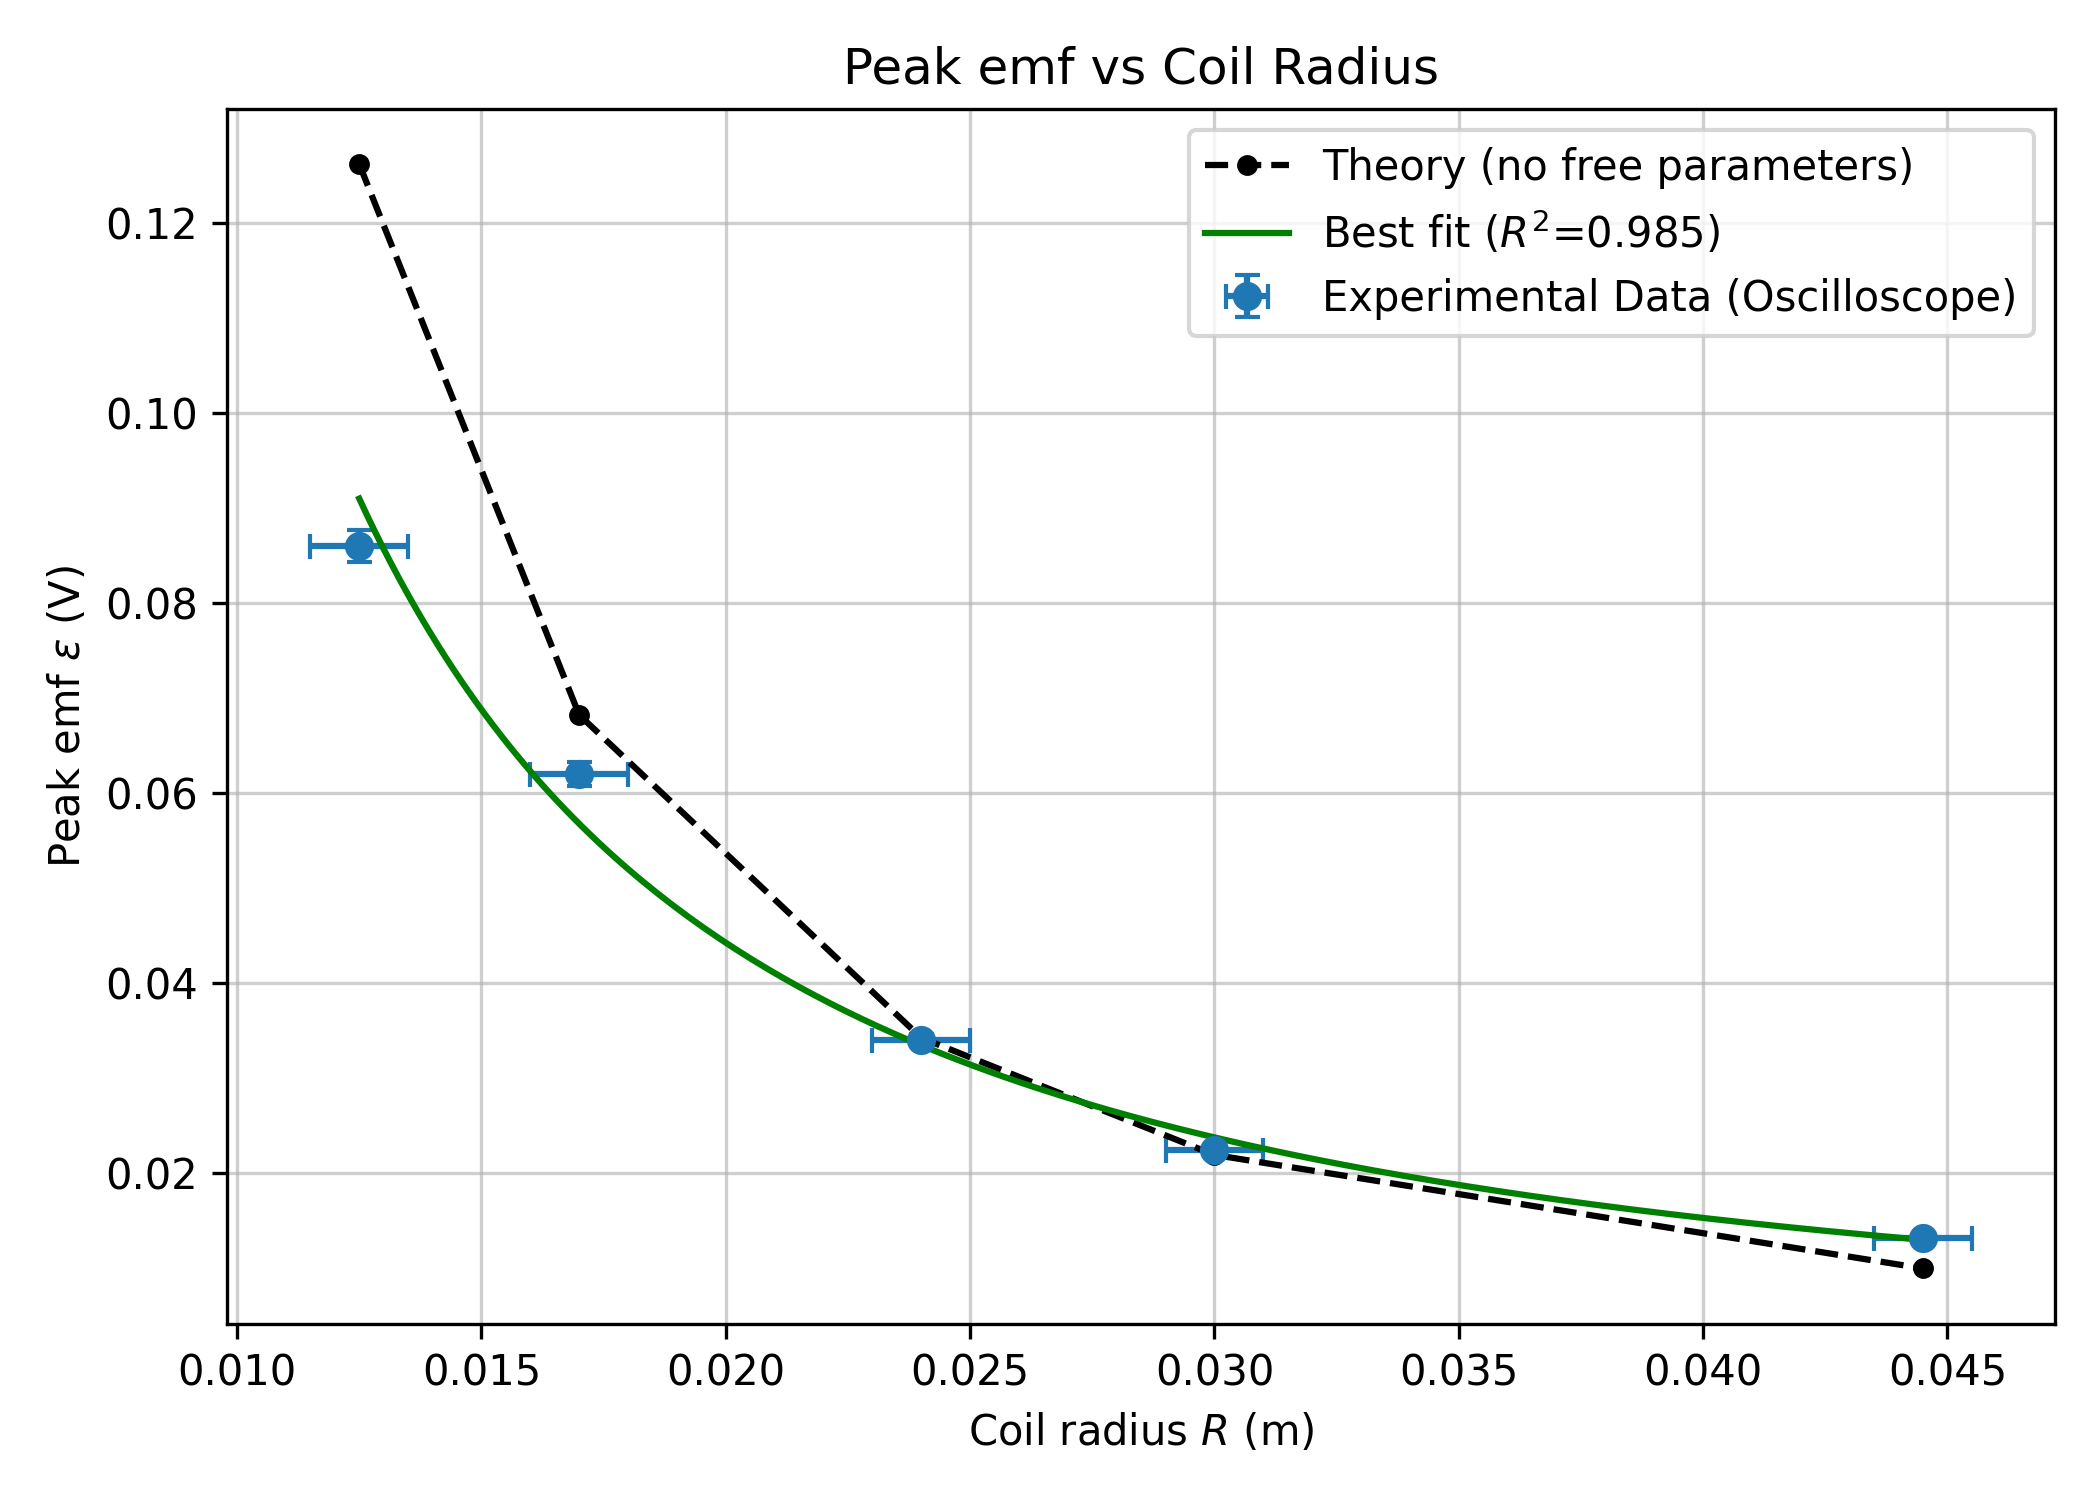
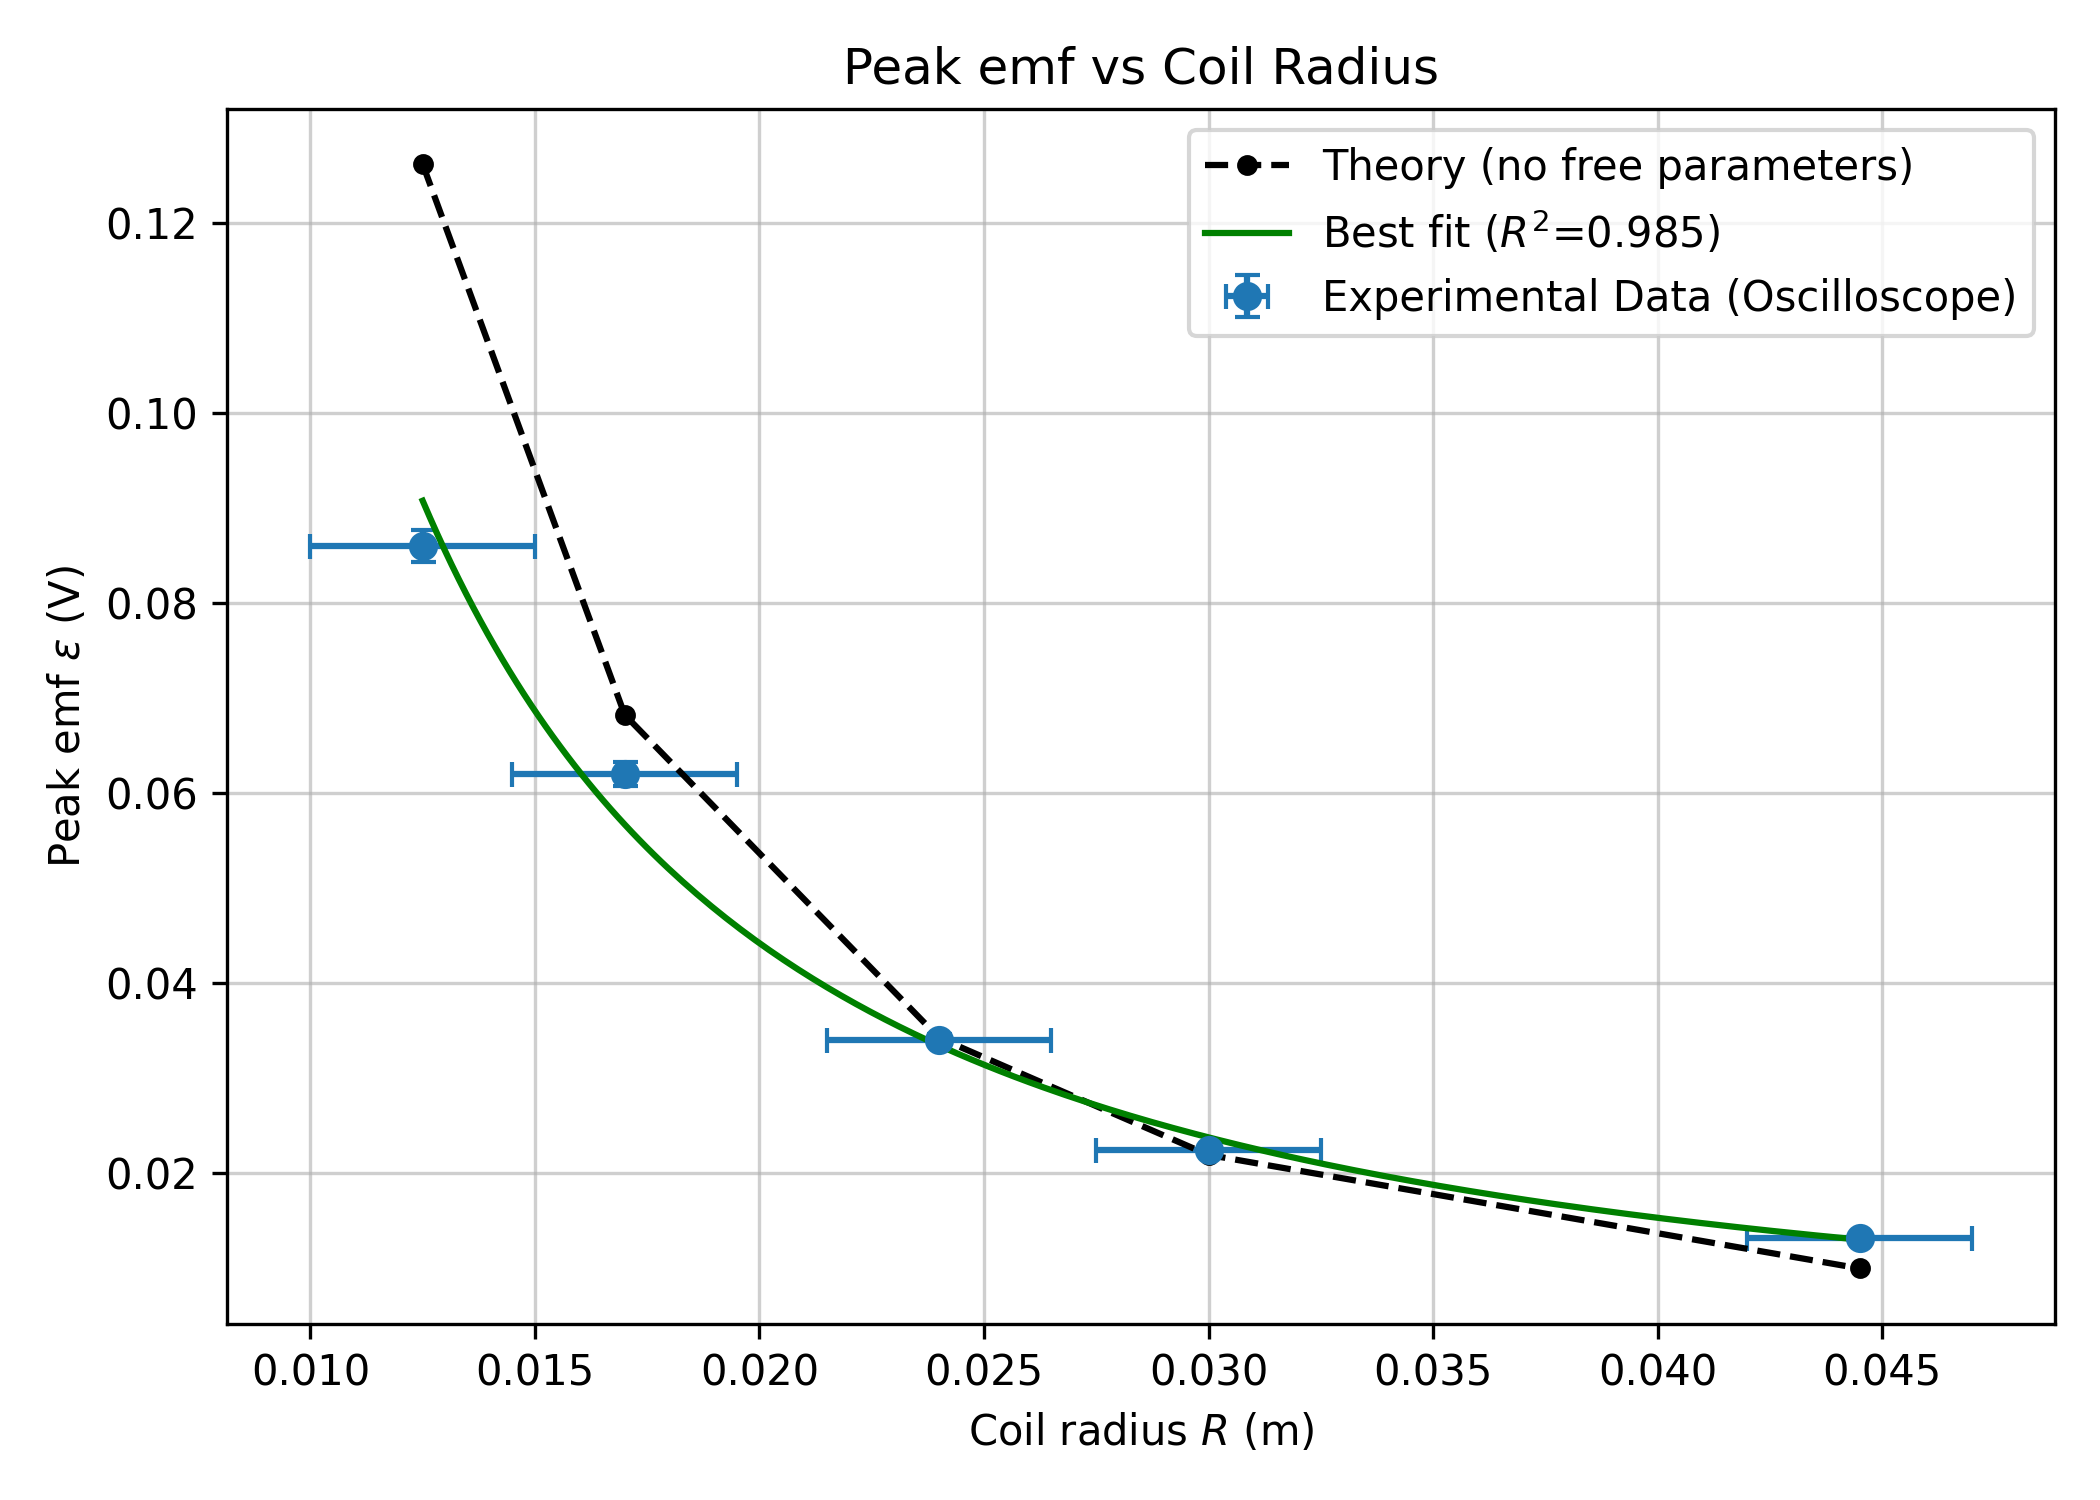
bruhrr

diff --git a/year 1/sem 2/phys1201/week 5and6/calcc.py b/year 1/sem 2/phys1201/week 5and6/calcc.py
@@ -19,9 +19,9 @@ sigma_B_mT = 0.005  # given uncertainty on B
 # uncerts
 
 sigma_N_turns = 1          # miscounting a partial turn, etc.
-sigma_R_cm = 0.1           # calliper reading on coil windings
-sigma_h_cm = 0.2           # ruler reading on drop height (for computing s)
-sigma_emf_frac = 0.02      # fractional oscilloscope voltage reading uncertainty
+sigma_R_cm = 0.25          # ruler read in 0.5 cm increments, so half that
+sigma_h_cm = 0.25          # ruler read in 0.5 cm increments, so half that
+sigma_emf_frac = 0.02      # 2% of oscilloscope voltage reading
 
 # FUNCS
 
@@ -160,8 +160,6 @@ def theory_emf_peak(N, v, R):
 
 
 def compare_to_theory(x_vals, y_measured_v, y_theory, title):
-    """Stats only, no plotting - chi-squared + ratio diagnostic against the
-    zero-free-parameter theory prediction."""
     x_nom = np.array([v.n for v in x_vals])
     x_err = np.array([v.s for v in x_vals])
     sigma_y = y_measured_v * sigma_emf_frac
@@ -196,10 +194,6 @@ def power_model(p, x):
 
 def plot_with_bestfit(x_nom, x_err, y_nom, sigma_y, y_theory, best_fit_result,
                        model_func, xlabel, title, filename_prefix):
-    """One plot: data, the fixed zero-parameter theory curve, and a genuine
-    best-fit curve (model allowed to flex) - lets you see whether a
-    discrepancy is a scale/offset thing or the shape itself is wrong,
-    without needing a separate residuals panel."""
     order = np.argsort(x_nom)
     x_smooth = np.linspace(min(x_nom), max(x_nom), 200)
     y_bestfit_smooth = model_func(best_fit_result.parameters, x_smooth)
@@ -223,13 +217,13 @@ def plot_with_bestfit(x_nom, x_err, y_nom, sigma_y, y_theory, best_fit_result,
 
 #emf vs no. of turns
 
-R_fixed_N = ufloat((3.4)/2, sigma_R_cm) / 100   # m #3.4 is diameter
+R_fixed_N = ufloat(((3.4)/2), sigma_R_cm) / 100   # m
 h_fixed_N = ufloat(48.4, sigma_h_cm) / 100   # m
 v_fixed_N = np.sqrt(2 * constants.g * h_fixed_N.n)  # speed at coil, from free fall
 
 turns_list = [10, 15, 20, 25, 30, 35, 40, 45, 50]
 turns_N = [ufloat(n, sigma_N_turns) for n in turns_list]
-emf_vs_N_measured = np.array([66, 116, 128, 166, 174, 226, 252, 260, 276]) / 2 / 1000  # V - one peak reading per turn count, same convention as R/s below
+emf_vs_N_measured = np.array([66, 116, 128, 166, 174, 226, 252, 260, 276]) / 2 / 1000  # V 
 
 y_theory_N = np.array([theory_emf_peak(N, v_fixed_N, R_fixed_N.n) for N in turns_list])
 xN, xerrN, yN, syN = compare_to_theory(
@@ -267,7 +261,7 @@ xR, xerrR, yR, syR = compare_to_theory(
 # emf vs magnet speed s
 
 N_fixed_s = 10
-R_fixed_s = ufloat((4.8)/ 2, sigma_R_cm) / 100  # m
+R_fixed_s = ufloat(((4.8) / 2), sigma_R_cm) / 100  # m
 
 heights_cm = [44.9, 39.9, 34.9, 29.9, 24.9, 19.9, 14.9, 9.9, 4.9]  # cm
 heights_m = [ufloat(hh / 100, sigma_h_cm / 100) for hh in heights_cm]
@@ -284,7 +278,7 @@ xs, xerrs, ys, sys_ = compare_to_theory(
 
 
 
-print("\n\n~~~ LINE OF BEST FIT (model allowed to flex) ~~~")
+print("\n\n~~~ LINE OF BEST FIT ~~~")
 
 print("\n-- N: linear fit emf = a*N + b --")
 res_N = odr_fit(turns_N, [ufloat(v, s) for v, s in zip(yN, syN)], linear_model, beta0=[0.001, 0])
@@ -309,33 +303,3 @@ print(f"b (offset) = {res_s.parameters[1]:.6f} +/- {res_s.parameter_errors[1]:.6
 print(f"R^2 = {res_s.r_squared:.4f}")
 plot_with_bestfit(xs, xerrs, ys, sys_, y_theory_s, res_s, linear_model,
                    "Magnet speed $s$ (m/s)", "Peak emf vs Magnet Speed", "graphs/emf_vs_s")
-
-
-
-print("\n\n~~~ALL MEASUREMENTS~~~")
-
-print("\n-- Number of turns (N) sub-experiment --")
-print(f"{'trial':>5} {'N':>5} {'emf(V)':>10}")
-for i in range(len(turns_list)):
-    print(f"{i+1:>5} {turns_list[i]:>5} {emf_vs_N_measured[i]:>10.4f}")
-print(f"held fixed: R = {R_fixed_N.n*100:.3f} cm, h = {h_fixed_N.n*100:.1f} cm")
-
-print("\n-- Coil radius (R) sub-experiment --")
-print(f"{'trial':>5} {'diam(cm)':>10} {'R(cm)':>8} {'h(cm)':>8} "
-      f"{'v(m/s)':>8} {'emf(mV)':>10} {'emf(V)':>10}")
-
-for i in range(len(d_cm)):
-    print(f"{i+1:>5} {d_cm[i]:>10.1f} {radii_cm[i]:>8.3f} "
-          f"{h:>8.2f} {speed_R:>8.3f} "
-          f"{emf_vs_R_measured[i]*1000:>10.1f} "
-          f"{emf_vs_R_measured[i]:>10.4f}")
-
-print("\n-- Magnet speed (s) sub-experiment --")
-print(f"{'trial':>5} {'h(cm)':>8} {'v(m/s)':>8} {'emf(mV)':>10} {'emf(V)':>10}")
-for i in range(len(heights_cm)):
-    print(f"{i+1:>5} {heights_cm[i]:>8} {speeds_s[i].n:>8.3f} "
-          f"{emf_vs_s_measured[i]*1000:>10.1f} {emf_vs_s_measured[i]:>10.4f}")
-print(f"held fixed: N = {N_fixed_s}, R = {R_fixed_s.n*100:.3f} +/- {R_fixed_s.s*100:.3f} cm")
-
-print(f"\n-- Dipole calibration --")
-print(f"m = {m_dipole:.4f} +/- {sigma_m:.4f} A m^2")
